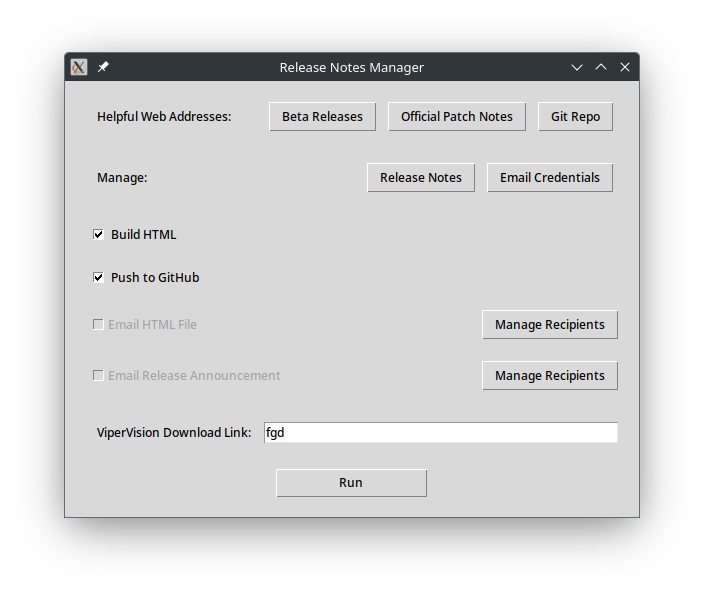
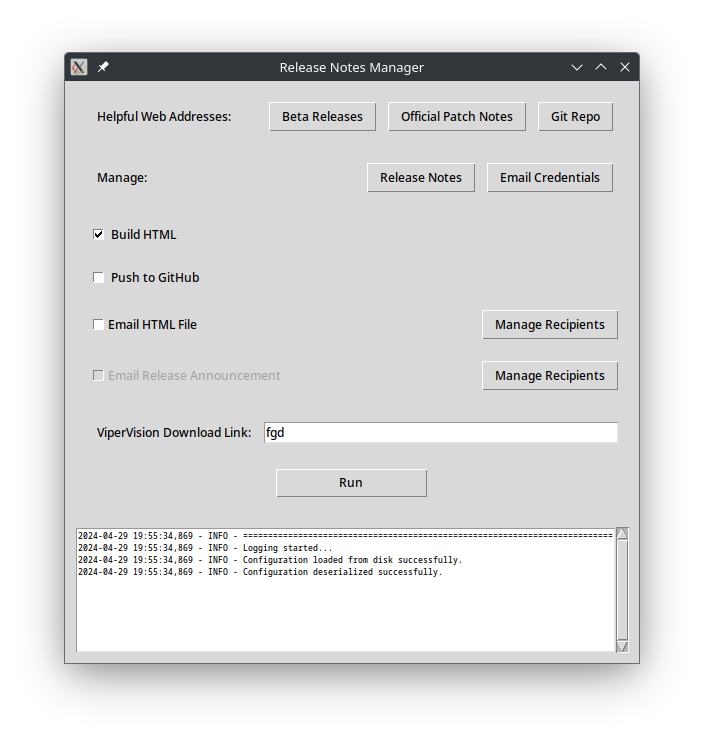
added logging, ofc app could use more

diff --git a/serializer.py b/serializer.py
@@ -1,44 +1,84 @@
 import json
+import logging
+import os
 import tkinter as tk
 from typing import Dict
 
 from constants import CONFIG_FILE_PATH
 
 
+logger = logging.getLogger('AppLogger')
+
+
+def build_app_config() -> Dict:
+    """Builds a default application configuration dictionary."""
+    return {
+        "configuration_history": {},
+        "email_distribution_lists": {},
+        "email_credentials": {}
+    }
+
+
 def serialize_config(app_config: Dict) -> dict:
     """Converts the configuration data with Tkinter variables into JSON-serializable format."""
-    serializable_config = {
-        "configuration_history": {
-            key: value.get() if isinstance(value, tk.Variable) else value
-            for key, value in app_config["configuration_history"].items()
-        },
-        "email_distribution_lists": app_config["email_distribution_lists"],
-        "email_credentials": app_config["email_credentials"]
-    }
-    return serializable_config
-
-
-def save_configuration_to_file(app_config: Dict, filename: str = CONFIG_FILE_PATH) -> None:
-    """Saves the application configuration to a JSON file."""
-    with open(filename, 'w') as f:
-        json.dump(serialize_config(app_config), f, indent=4)
+    try:
+        serializable_config = {
+            "configuration_history": {
+                key: value.get() if isinstance(value, tk.Variable) else value
+                for key, value in app_config["configuration_history"].items()
+            },
+            "email_distribution_lists": app_config["email_distribution_lists"],
+            "email_credentials": app_config["email_credentials"]
+        }
+        logger.info("Configuration serialized successfully.")
+        return serializable_config
+    except Exception as e:
+        logger.error("Failed to serialize configuration: %s", str(e))
+        raise
 
 
 def deserialize_config(serialized_config: Dict) -> Dict:
     """Converts JSON-loaded data back to the appropriate Tkinter variables and structures."""
-    app_config = {
-        "configuration_history": {
-            key: tk.BooleanVar(value=value) if isinstance(value, bool) else tk.StringVar(value=value)
-            for key, value in serialized_config["configuration_history"].items()
-        },
-        "email_distribution_lists": serialized_config["email_distribution_lists"],
-        "email_credentials": serialized_config["email_credentials"]
-    }
-    return app_config
+    try:
+        app_config = {
+            "configuration_history": {
+                key: tk.BooleanVar(value=value) if isinstance(value, bool) else tk.StringVar(value=value)
+                for key, value in serialized_config["configuration_history"].items()
+            },
+            "email_distribution_lists": serialized_config["email_distribution_lists"],
+            "email_credentials": serialized_config["email_credentials"]
+        }
+        logger.info("Configuration deserialized successfully.")
+        return app_config
+    except Exception as e:
+        logger.error("Failed to deserialize configuration: %s", str(e))
+        raise
+
+
+def save_configuration_to_file(app_config: Dict, filename: str = CONFIG_FILE_PATH) -> None:
+    """Saves the application configuration to a JSON file."""
+    try:
+        with open(filename, 'w') as f:
+            json.dump(serialize_config(app_config), f, indent=4)
+        logger.info("Configuration saved to file successfully.")
+    except Exception as e:
+        logger.error("Failed to save configuration to file: %s", str(e))
+        raise
 
 
 def load_configuration_from_file(filename: str = CONFIG_FILE_PATH) -> Dict:
-    """Loads the application configuration from a JSON file."""
-    with open(filename, 'r') as f:
-        serialized_config = json.load(f)
-    return deserialize_config(serialized_config)
+    """Loads the application configuration from a JSON file or creates a new one if necessary."""
+    try:
+        if os.path.exists(filename):
+            with open(filename, 'r') as f:
+                serialized_config = json.load(f)
+                logger.info("Configuration loaded from disk successfully.")
+            return deserialize_config(serialized_config)
+        else:
+            raise FileNotFoundError("Configuration file not found.")
+    except (FileNotFoundError, json.JSONDecodeError) as e:
+        logger.warning("Error loading configuration: %s. Building a default configuration.", str(e))
+        return build_app_config()
+    except Exception as e:
+        logger.error("An unexpected error occurred: %s. Using default configuration.", str(e))
+        return build_app_config()

diff --git a/gui.py b/gui.py
@@ -1,11 +1,13 @@
 
+import logging
 import os
 import webbrowser
 
 from typing import Dict
 
 import tkinter as tk
-from tkinter import ttk, messagebox, Toplevel, Listbox, Scrollbar, Entry, Button
+from tkinter import ttk, messagebox, Toplevel, Listbox, Scrollbar, Entry, Button, scrolledtext
+from tkinter import font as tk_font
 
 import constants
 import email_operations
@@ -13,9 +15,21 @@ import serializer
 import utils
 
 
+logger = logging.getLogger('AppLogger')
+
+
 # ============================================================================
 
 
+def get_logging_widget(root: tk):
+    return tk.scrolledtext.ScrolledText(
+        root,
+        state='disabled',
+        height=10, font=tk_font.Font(family="Consolas", size=6)
+    )
+
+
+# ============================================================================
 def setup_hotlink_buttons(root: tk) -> None:
     button_frame = tk.Frame(root)
     button_frame.pack(side=tk.TOP, padx=20, pady=(20, 10), fill=tk.X)
@@ -144,9 +158,7 @@ def save_credentials(password_window: tk.Toplevel, username, password, app_confi
     obf_password = utils.encode_to_base64(obf_password)
     app_config['email_credentials']['google_email_app_password'] = obf_password
 
-    print("Credentials saved:", username, password)
-    print(f"{app_config['email_credentials']['google_email_address']=}")
-    print(f"{app_config['email_credentials']['google_email_app_password']=}")
+    logger.info("Email Credentials saved successfully.")
 
     toggle_x(app_config)
 
@@ -155,15 +167,17 @@ def save_credentials(password_window: tk.Toplevel, username, password, app_confi
 
 def open_file_with_default_editor(file_path: str) -> None:
     try:
+
         if os.path.exists(file_path):
             file_url = 'file://' + os.path.abspath(file_path)
             webbrowser.open(file_url)
         else:
+            logger.error("File does not exist: %s", file_path)
             messagebox.showinfo("ERROR: Open File", f"File does not exist: {file_path}")
-            # TODO: Log error
+
     except Exception as e:
+        logger.error("Failed to open file: %s", str(e))
         messagebox.showinfo("ERROR: Open File", f"Failed to open file {e}")
-        # TODO: Log exception
 
 
 # ============================================================================
@@ -365,8 +379,31 @@ def run_operations(app_config: Dict) -> None:
 
     serializer.save_configuration_to_file(app_config)
 
+# ============================================================================
+
+
+def kill(root: tk):
+    # Schedule app death
+    root.after(2000, root.destroy)  # auto-close in milliseconds
+
+    title = "Application Closing!"
+    logger.info(title)
+
+    try:
+        messagebox.showinfo(
+            title,
+            f"Configuration has been saved successfully.\n\nThe app will close shortly.",
+        )
+        # If the user clicks 'OK', immediately destroy the root to avoid waiting for the timeout
+        root.destroy()
+
+    except tk.TclError:
+        # Prevents log from complaining about popups which aren't closed.
+        pass
+
 
 # ============================================================================
+
 
 def toggle_x(app_config: Dict):
     """Sorry for the mess!"""

diff --git a/main.py b/main.py
@@ -1,35 +1,37 @@
 
 import tkinter as tk
-from tkinter import messagebox
-import gui
 
+import gui
+import logger_config
 import serializer
 
 
 # TODO: block extra windows from spawning when an element which loads a frame is clicked
+# TODO: edit button for web addresses
+# TODO: stop saving download address
 
 
 def on_app_close(root, app_config):
     """Function to handle app closure: saves configuration and cleans up before closing."""
     serializer.save_configuration_to_file(app_config)
-    root.after(2000, root.destroy)  # auto-close in milliseconds
-    try:
-        messagebox.showinfo(
-            "Application Closing",
-            "Configuration has been saved successfully. \n\nThe app will close shortly."
-        )
-    except tk.TclError:
-        # Prevents log from complaining about popups which aren't closed.
-        pass
+    gui.kill(root)
 
 
 def main():
     root = tk.Tk()
     root.title("Release Notes Manager")
 
+    # Logging setup
+    log_widget = gui.get_logging_widget(root)
+    logger = logger_config.setup_logging(log_widget)
+    logger.info("=" * 74)
+    logger.info("Logging started...")
+
+    # Config Setup
     app_config = serializer.load_configuration_from_file()
     app_config['state_managers'] = {}
 
+    # Gui Setup
     gui.setup_hotlink_buttons(root)
     gui.setup_manage_buttons(root, app_config)
     gui.setup_build_html_field(root, app_config)
@@ -42,6 +44,7 @@ def main():
     )
     gui.setup_download_link_field(root, app_config)
     gui.setup_run_button(root, app_config)
+    log_widget.pack(fill=tk.BOTH, expand=True, padx=10, pady=10)
 
     root.protocol("WM_DELETE_WINDOW", lambda: on_app_close(root, app_config))
     root.mainloop()

diff --git a/logger_config.py b/logger_config.py
@@ -1,0 +1,38 @@
+
+import logging
+from tkinter.scrolledtext import ScrolledText
+
+
+class TextHandler(logging.Handler):
+    """ A logging handler that outputs logs to a Tkinter Text widget and a file. """
+    def __init__(self, text_widget):
+        super().__init__()
+        self.text_widget = text_widget
+
+    def emit(self, record):
+        msg = self.format(record)
+        # Safely append to text widget
+        if self.text_widget.winfo_exists():  # Check if widget still exists
+            self.text_widget.config(state='normal')
+            self.text_widget.insert('end', msg + '\n')
+            self.text_widget.config(state='disabled')
+            self.text_widget.yview('end')
+
+def setup_logging(text_widget):
+    logger = logging.getLogger('AppLogger')
+    logger.setLevel(logging.DEBUG)
+
+    # Ensure the logger has no other handlers configured previously
+    if not logger.handlers:
+        # Create and configure text handler
+        text_handler = TextHandler(text_widget)
+        formatter = logging.Formatter('%(asctime)s - %(levelname)s - %(message)s')
+        text_handler.setFormatter(formatter)
+        logger.addHandler(text_handler)
+
+        # Create and configure file handler
+        file_handler = logging.FileHandler('application.log')
+        file_handler.setFormatter(formatter)
+        logger.addHandler(file_handler)
+
+    return logger

diff --git a/utils.py b/utils.py
@@ -1,10 +1,14 @@
 
 import base64
+import logging
 import webbrowser
 from itertools import cycle
 from typing import Dict, Any, Union
 
 import constants
+
+
+logger = logging.getLogger('AppLogger')
 
 
 def get_obfuscated_data(key: str, app_config: Dict) -> str:
@@ -35,7 +39,7 @@ def encode_to_base64(data: Union[str, bytes]) -> str:
         return base64.b64encode(data).decode()
 
     except Exception as e:
-        print(f"Error encoding data to Base64: {str(e)}")
+        logger.error("Error encoding data to Base64: %s", str(e))
         return ''
 
 
@@ -44,11 +48,12 @@ def decode_from_base64(b64_string: bytes) -> bytes:
         return base64.b64decode(b64_string)
 
     except Exception as e:
-        print(f"Error decoding Base64 string: {str(e)}")
+        logger.error("Error decoding Base64 string: %s", str(e))
         return bytes()
 
 
 def open_url(url: str) -> None:
+    logger.info("Navigating to %s", url)
     webbrowser.open_new_tab(url)
 
 
